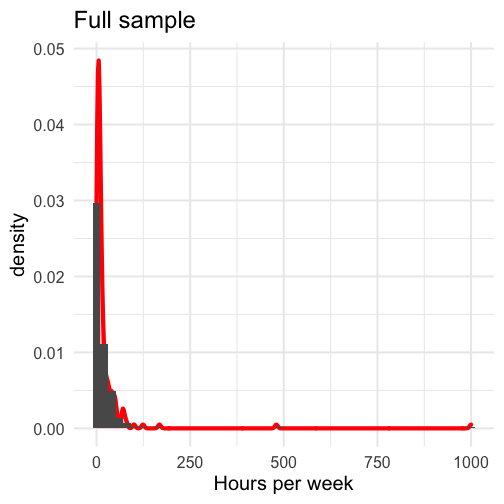
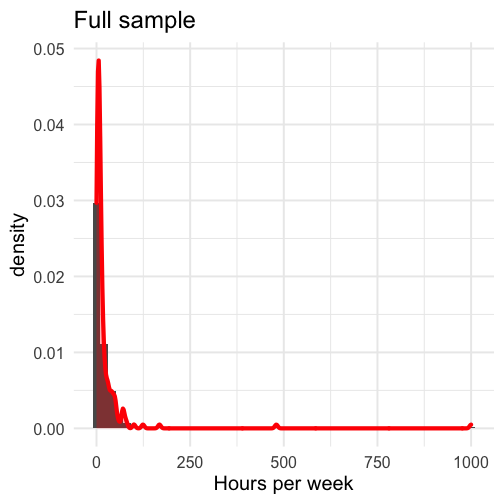
lectures done for this week

Changed region(s): [[0.1786, 0.3869, 0.2679, 0.8631]]

diff --git a/lectures/16-two_means_III.html b/lectures/16-two_means_III.html
@@ -6,7 +6,6 @@
     <link href="libs/remark-css-0.0.1/default.css" rel="stylesheet" />
     <link href="libs/remark-css-0.0.1/rladies.css" rel="stylesheet" />
     <link href="libs/remark-css-0.0.1/rladies-fonts.css" rel="stylesheet" />
-    <script src="libs/kePrint-0.0.1/kePrint.js"></script>
     <link rel="stylesheet" href="my-theme.css" type="text/css" />
   </head>
   <body>
@@ -327,94 +326,6 @@ ggpubr::ggpaired(data = gulls, cond1 = "At", cond2 = "Away", line.color = "grey"
 ```
 
 ![](16-two_means_III_files/figure-html/unnamed-chunk-10-1.png)&lt;!-- --&gt;
-
----
-
-## The variance of difference scores
-
-With the raw data, the calculation of the variance of the standard deviation scores `\(\large (\hat{\sigma}_\Delta)\)` is intuitive. Sometimes you will not have access to the raw data, but will want to conduct the test. 
-
-
-
-For example, you read a study that compares a sample of Oregon students to known US benchmarks on several variables using multiple one-sample *t*-tests; you want to know whether OR students respond more to one variable than the other.
-
-&lt;table class="table" style="margin-left: auto; margin-right: auto;"&gt;
- &lt;thead&gt;
-  &lt;tr&gt;
-   &lt;th style="text-align:left;"&gt;   &lt;/th&gt;
-   &lt;th style="text-align:right;"&gt; N &lt;/th&gt;
-   &lt;th style="text-align:right;"&gt; Mean &lt;/th&gt;
-   &lt;th style="text-align:right;"&gt; SD &lt;/th&gt;
-  &lt;/tr&gt;
- &lt;/thead&gt;
-&lt;tbody&gt;
-  &lt;tr&gt;
-   &lt;td style="text-align:left;"&gt; Importance_reducing_pollution &lt;/td&gt;
-   &lt;td style="text-align:right;"&gt; 194 &lt;/td&gt;
-   &lt;td style="text-align:right;"&gt; 792.15 &lt;/td&gt;
-   &lt;td style="text-align:right;"&gt; 937.03 &lt;/td&gt;
-  &lt;/tr&gt;
-  &lt;tr&gt;
-   &lt;td style="text-align:left;"&gt; Importance_recycling_rubbish &lt;/td&gt;
-   &lt;td style="text-align:right;"&gt; 194 &lt;/td&gt;
-   &lt;td style="text-align:right;"&gt; 714.85 &lt;/td&gt;
-   &lt;td style="text-align:right;"&gt; 652.65 &lt;/td&gt;
-  &lt;/tr&gt;
-&lt;/tbody&gt;
-&lt;/table&gt;
-
----
-
-It turns out that the mean difference score is the same as the difference in means, so that's an easy part of the calculation. 
-
-But the calculation of the standard deviation becomes a little more complicated:
-
-`$$\large \hat{\sigma}_\Delta = \sqrt{\hat{\sigma}^2_{M_1} + \hat{\sigma}^2_{M_2} - 2r(\hat{\sigma}_{M_1}\hat{\sigma}_{M_2})}$$`
-
-
-```r
-sd_1 = sd(school$Importance_reducing_pollution, na.rm=T)
-sd_2 = sd(school$Importance_recycling_rubbish, na.rm=T)
-cor_12 = cor(school$Importance_reducing_pollution, school$Importance_recycling_rubbish, use = "pairwise")
-
-var_d = sd_1^2 + sd_2^2 -2*cor_12*sd_1*sd_2
-sqrt(var_d)
-```
-
-```
-## [1] 746.1475
-```
-
-```r
-sd(school$Importance_reducing_pollution-school$Importance_recycling_rubbish, na.rm=T)
-```
-
-```
-## [1] 746.1475
-```
-
-???
-
-Useful for meta-analysis or getting more information from articles you read.
-
-What else can this equation tell us?
-
-* What happens if the two variables are highly correlated with each other?
-
-
----
-
-`$$\large \hat{\sigma}_\Delta = \sqrt{\hat{\sigma}^2_{M_1} + \hat{\sigma}^2_{M_2} - 2r(\hat{\sigma}_{M_1}\hat{\sigma}_{M_2})}$$`
-
-What happens if `\(\large r\)` is large and positive?
-
---
-
-What happens if `\(\large r\)` is small and positive?
-
---
-
-What happens if `\(\large r\)` is negative?
 
 ---
 

diff --git a/lectures/15-two_means_I.html b/lectures/15-two_means_I.html
@@ -19,7 +19,6 @@ class: center, middle, inverse, title-slide
 
 
 
----
 
 ## Independent samples *t*-test
 
@@ -95,7 +94,6 @@ So our final calculation for the standard error of the difference of independent
 The first part of this equation pools the two variance estimates by weighting each one based on sample size. 
 
 The second part changes the units from scores to differences in means. 
-  * Recall that in hypothesis testing, we're not interested in the likelihood of scores, but the likelihood of statistics. 
   
 ---
 
@@ -151,8 +149,8 @@ psych:: describe(school$Hanging_Out_With_Friends_Hours)
 ```r
 school %&gt;%
   ggplot(aes(x = friends)) + 
-   geom_density(color = "red", size = 2, fill = "red", alpha = .3) + 
-  geom_histogram(aes(y = ..density..), bins = 50) + 
+  geom_histogram(aes(y = ..density..), bins = 50) +
+  geom_density(color = "red", size = 2, fill = "red", alpha = .3) + 
  labs(x = "Hours per week", title = "Full sample") + theme_minimal(base_size = 20)
 ```
 
@@ -165,8 +163,8 @@ school %&gt;%
 school %&gt;%
   filter(friends &lt; 168) %&gt;%
   ggplot(aes(x = friends)) + 
+  geom_histogram(aes(y = ..density..), bins = 50) +
   geom_density(color = "red", size = 2, fill = "red", alpha = .3) + 
-  geom_histogram(aes(y = ..density..), bins = 50) + 
   labs(x = "Hours per week", title = "Mathematically possible") + theme_minimal(base_size = 20)
 ```
 
@@ -313,7 +311,7 @@ t.test(friends~Gender, data = school_new, var.equal = T)
 
 ## Confidence intervals
 
-**Confidence intervals** are used to communicate the precision in our how well our statistic estimates the parameter. As a reminder, they are grounded in frequenst probability: if we repeated our experiment many times, we would expect that 95% of the time, our 95% confidence interval would capture the true population parameter.
+**Confidence intervals** are used to communicate the precision in how well our statistic estimates the parameter. As a reminder, they are grounded in frequenst probability: if we repeated our experiment many times, we would expect that 95% of the time, our 95% confidence interval would capture the true population parameter.
 
 In an independent sample's t-test, you have calculated three different statistics, and so you can construct three different confidence intervals.
 
@@ -475,8 +473,7 @@ class: inverse
 ## Next time
 
 * Assumptions
-* Cohen's D 
-* Matrix algebra
+* Cohen's D
     </textarea>
 <style data-target="print-only">@media screen {.remark-slide-container{display:block;}.remark-slide-scaler{box-shadow:none;}}</style>
 <script src="https://remarkjs.com/downloads/remark-latest.min.js"></script>

diff --git a/lectures/15-two_means_II.html b/lectures/15-two_means_II.html
@@ -328,13 +328,7 @@ Recall the three assumptions of Student's *t*-test:
 * Normality
 * Homogeneity of variance
 
-There are no good statistical tests to determine whether you've violated the first -- it depends on how you sampled your population. 
-
---
-
-* Draw phone numbers at random from a phone book?
-* Recruit random sets of fraternal twins?
-* Randomly select houses in a city and interview the person who answers the door?
+There are no good statistical tests to determine whether you've violated the first -- it depends on how you sampled your population.
 
 ---
 
